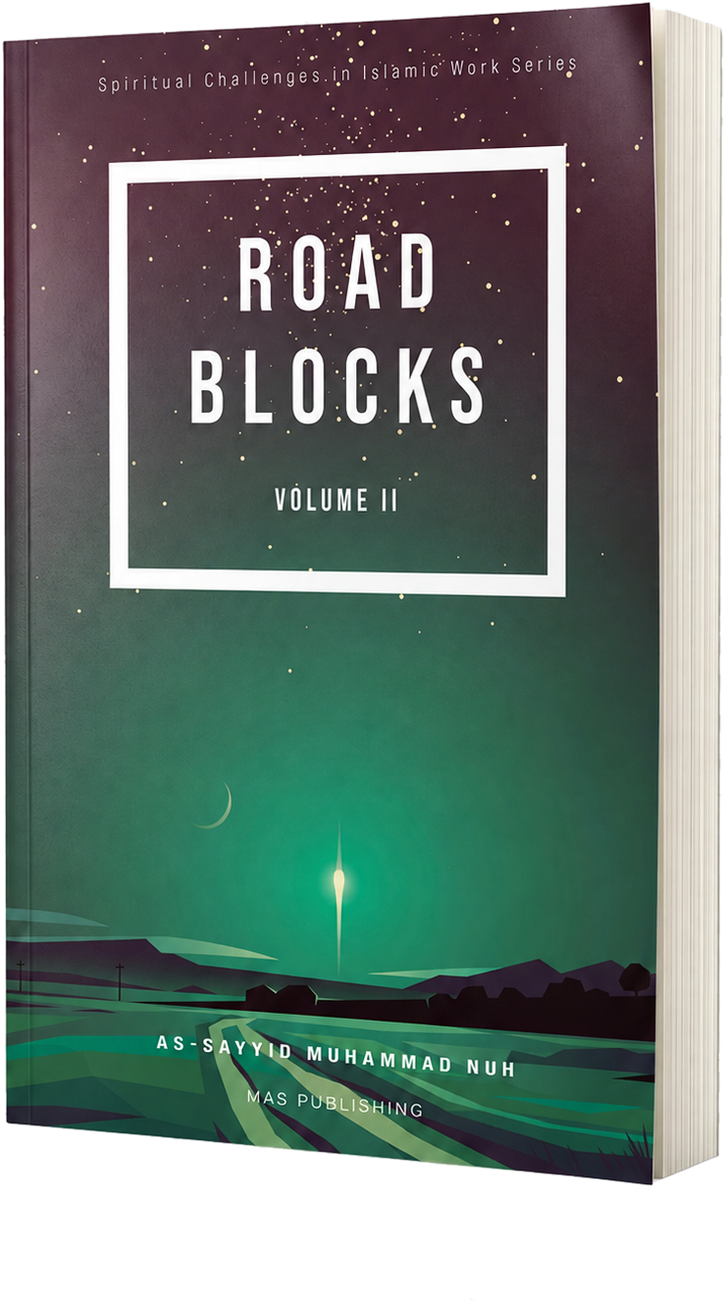
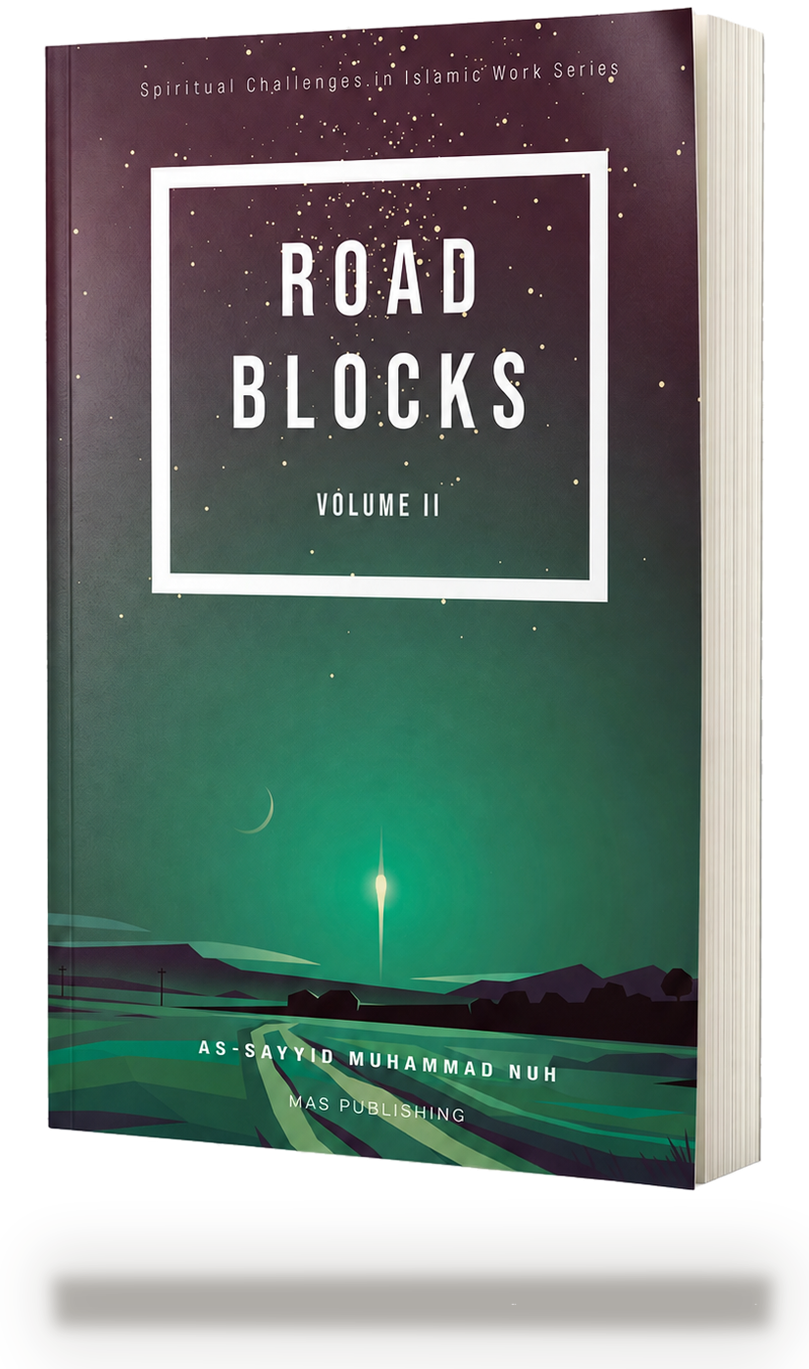
Baked two-layer ground shadows on all renders + Guardians joins the tree

diff --git a/index.html b/index.html
@@ -524,21 +524,21 @@ function toast(msg) {
 
 /* ---------- The Tree ---------- */
 const TREE_BOOKS = [
-  { key: "guardians", zone: "The Canopy", part: "The Shade", title: "Guardians of the Houses of Allah", author: "MAS Publishing", line: "The canopy the community gathers under \u2014 for everyone who loves, serves and sustains the houses of Allah.", cover: "https://cdn.shopify.com/s/files/1/0073/6231/4343/products/frontcover.png" },
-  { key: "tajdid", part: "The Leaves", title: "Tajdid Anthology, Vol. I", author: "Team of Authors", line: "Leaves fall and return \u2014 renewal, season after season. Essays on Islamic work and revival from many pens.", dims: [6, 0.64, 9], pages: 256, imgw: 5.83, render: "tajdid.png", cover: "https://cdn.shopify.com/s/files/1/0760/5724/8026/files/Tajdid-Anthology_cc5fa651-48d8-4d20-8930-95fec0549f51.jpg" },
-  { key: "the muslim speaker", part: "The Fruit", title: "The Muslim Speaker Toolkit", author: "Asad Zaman", line: "What the tree hands to others: Qur'an and Sunnah references on fifty topics, gathered for khateebs and teachers.", dims: [6, 0.5, 9], pages: 198, imgw: 5.30, render: "mst.png", cover: "https://cdn.shopify.com/s/files/1/0760/5724/8026/files/The-Muslim-Speaker-Toolkit-Compiled-References-from-Quran-Sunnah_b2e22daf-b1a5-48d3-88f5-b5e77e04a563.jpg" },
-  { key: "our youth", part: "The Seeds", title: "Our Youth, Our Future", author: "Ahmad H. Sakr", line: "Seeds for the next tree \u2014 a ten-step guide to raising the generation that carries the baton.", dims: [5.74, 0.41, 8.74], pages: 90, imgw: 5.17, render: "ouryouth.png", cover: "https://m.media-amazon.com/images/I/615j8eEbQ+L._SY522_.jpg" },
-  { key: "transformed", zone: "The Branches", part: "The Branches", title: "Transformed by Worship", author: "Salah Soltan", line: "The four great limbs \u2014 how worship was designed to shape soul, character, mind and body.", dims: [5.5, 0.5, 8.5], pages: 197, imgw: 5.46, render: "tbw.png", cover: "https://cdn.shopify.com/s/files/1/0073/6231/4343/products/E94AB6B1-286F-461C-9B5F-D26C077F645A.jpg" },
-  { key: "cultivating", part: "The Branches", title: "Cultivating Character", author: "Younoos Latheef", line: "The shape the branching takes: twelve character traits through an Islamic lens, for youth and their mentors.", dims: [6, 0.59, 9], pages: 261, imgw: 5.53, render: "cultivating.png", cover: "https://cdn.shopify.com/s/files/1/0760/5724/8026/files/cultivating-character-front-cover_05b8174a-7f7c-417c-b816-288758db43aa.png" },
-  { key: "roadblocks:", zone: "The Bark", part: "The Bark", title: "Roadblocks", author: "As-Sayyid Muhammad Nuh", line: "The tree's protection \u2014 the spiritual diseases that rot Islamic work from within, named and treated.", dims: [6, 0.48, 9], pages: 192, imgw: 5.51, render: "rb1.png", cover: "https://cdn.shopify.com/s/files/1/0073/6231/4343/files/RoadLocks.jpg" },
-  { key: "roadblocks volume 2", part: "The Bark", title: "Roadblocks, Volume II", author: "As-Sayyid Muhammad Nuh", line: "The second layer of defense: six more roadblocks, with commentary for the age of feeds and followers.", dims: [6, 0.43, 9], pages: 169, imgw: 5.02, render: "rb2.png", cover: "https://cdn.shopify.com/s/files/1/0760/5724/8026/files/Road-Blocks-Volume-2_15d53c98-8680-4a4b-9071-00e2acd79e7c.jpg" },
-  { key: "rising soul", zone: "The Trunk", part: "The Trunk", title: "Rising Soul", author: "Muhammad Mansur", line: "The self, rising ring by ring \u2014 a practical, step-by-step guide to tarbiyat an-nafs.", dims: [5.5, 0.6, 8.5], pages: 240, imgw: 6.24, render: "risingsoul.png", cover: "https://cdn.shopify.com/s/files/1/0073/6231/4343/products/rising_soul_front_cover.png" },
-  { key: "tarbiya handbook", part: "The Trunk", title: "Tarbiya Handbook", author: "MAS Publishing", line: "The pattern of growth \u2014 the companion handbook to the tarbiya process itself.", dims: [5.5, 0.5, 8.5], est: true, imgw: 5.26, render: "https://cdn.shopify.com/s/files/1/0760/5724/8026/files/mas-tarbiya3d.png?v=1786681497", cover: "https://cdn.shopify.com/s/files/1/0073/6231/4343/products/Screen_Shot_2020-01-25_at_1.17.26_PM.png" },
-  { key: "mas revival", part: "The Trunk", title: "MAS Revival", author: "MAS Publishing", line: "The grain of the wood: the idea, method and spirit running through the whole of the work.", dims: [5.5, 0.46, 8.5], pages: 182, imgw: 5.22, render: "revival.png", cover: "https://cdn.shopify.com/s/files/1/0760/5724/8026/files/Revival-1_bcc96c73-9f2d-4227-b87b-7a7a3403fe67.png" },
-  { key: "sincerity", zone: "The Heartwood", part: "The Heartwood", title: "Sincerity", author: "Yusuf al-Qaradawi", line: "The hidden center that decides whether the whole tree is sound \u2014 keeping the heart's intention pure.", dims: [5.5, 0.16, 8.5], pages: 61, imgw: 5.02, render: "sincerity.png", cover: "https://cdn.shopify.com/s/files/1/0073/6231/4343/products/sincerity_front_cover.png" },
-  { key: "faith first", zone: "The Roots", part: "The Roots", title: "Faith First", author: "Magdy al-Hilali", line: "The taproot. Begin with iman, and everything else follows.", dims: [7.5, 0.92, 9.25], pages: 408, imgw: 7.0, render: "ff-ali.png", cover: "https://cdn.shopify.com/s/files/1/0760/5724/8026/products/51bvjyDFT5S.jpg?width=810" },
-  { key: "how to love", part: "The Roots", title: "How to Love the Prophet \ufdfa", author: "Ali Badahdah", line: "The root wrapped around the Sunnah \u2014 kindling love for the one we follow \ufdfa.", dims: [6, 0.2, 9], pages: 79, imgw: 4.91, render: "htlp.png", cover: "https://cdn.shopify.com/s/files/1/0073/6231/4343/products/14A7B9D4-28BE-46E9-8EC6-4A7CC305D94A.png" },
-  { key: "al-ma", part: "The Roots", title: "Al-Ma'thurat", author: "Hasan al-Banna", line: "What the roots drink daily \u2014 morning and evening remembrance drawn from Qur'an and Sunnah.", dims: [4.5, 0.3, 7], pages: 40, est: true, imgw: 3.52, render: "mathurat2.png", cover: "https://cdn.shopify.com/s/files/1/0073/6231/4343/files/D14CCE8C-A13A-4EFE-83ED-FE6D498CF27F.jpg" }
+  { key: "guardians", zone: "The Canopy", part: "The Shade", title: "Guardians of the Houses of Allah", author: "MAS Publishing", line: "The canopy the community gathers under \u2014 for everyone who loves, serves and sustains the houses of Allah.", dims: [6, 0.5, 9], est: true, imgw: 6.47, render: "https://cdn.shopify.com/s/files/1/0760/5724/8026/files/mas-guardians3d.png?v=1786684290", cover: "https://cdn.shopify.com/s/files/1/0073/6231/4343/products/frontcover.png" },
+  { key: "tajdid", part: "The Leaves", title: "Tajdid Anthology, Vol. I", author: "Team of Authors", line: "Leaves fall and return \u2014 renewal, season after season. Essays on Islamic work and revival from many pens.", dims: [6, 0.64, 9], pages: 256, imgw: 6.53, render: "tajdid.png?v=s1", cover: "https://cdn.shopify.com/s/files/1/0760/5724/8026/files/Tajdid-Anthology_cc5fa651-48d8-4d20-8930-95fec0549f51.jpg" },
+  { key: "the muslim speaker", part: "The Fruit", title: "The Muslim Speaker Toolkit", author: "Asad Zaman", line: "What the tree hands to others: Qur'an and Sunnah references on fifty topics, gathered for khateebs and teachers.", dims: [6, 0.5, 9], pages: 198, imgw: 5.94, render: "mst.png?v=s1", cover: "https://cdn.shopify.com/s/files/1/0760/5724/8026/files/The-Muslim-Speaker-Toolkit-Compiled-References-from-Quran-Sunnah_b2e22daf-b1a5-48d3-88f5-b5e77e04a563.jpg" },
+  { key: "our youth", part: "The Seeds", title: "Our Youth, Our Future", author: "Ahmad H. Sakr", line: "Seeds for the next tree \u2014 a ten-step guide to raising the generation that carries the baton.", dims: [5.74, 0.41, 8.74], pages: 90, imgw: 5.79, render: "ouryouth.png?v=s1", cover: "https://m.media-amazon.com/images/I/615j8eEbQ+L._SY522_.jpg" },
+  { key: "transformed", zone: "The Branches", part: "The Branches", title: "Transformed by Worship", author: "Salah Soltan", line: "The four great limbs \u2014 how worship was designed to shape soul, character, mind and body.", dims: [5.5, 0.5, 8.5], pages: 197, imgw: 6.12, render: "tbw.png?v=s1", cover: "https://cdn.shopify.com/s/files/1/0073/6231/4343/products/E94AB6B1-286F-461C-9B5F-D26C077F645A.jpg" },
+  { key: "cultivating", part: "The Branches", title: "Cultivating Character", author: "Younoos Latheef", line: "The shape the branching takes: twelve character traits through an Islamic lens, for youth and their mentors.", dims: [6, 0.59, 9], pages: 261, imgw: 6.19, render: "cultivating.png?v=s1", cover: "https://cdn.shopify.com/s/files/1/0760/5724/8026/files/cultivating-character-front-cover_05b8174a-7f7c-417c-b816-288758db43aa.png" },
+  { key: "roadblocks:", zone: "The Bark", part: "The Bark", title: "Roadblocks", author: "As-Sayyid Muhammad Nuh", line: "The tree's protection \u2014 the spiritual diseases that rot Islamic work from within, named and treated.", dims: [6, 0.48, 9], pages: 192, imgw: 6.17, render: "rb1.png?v=s1", cover: "https://cdn.shopify.com/s/files/1/0073/6231/4343/files/RoadLocks.jpg" },
+  { key: "roadblocks volume 2", part: "The Bark", title: "Roadblocks, Volume II", author: "As-Sayyid Muhammad Nuh", line: "The second layer of defense: six more roadblocks, with commentary for the age of feeds and followers.", dims: [6, 0.43, 9], pages: 169, imgw: 5.62, render: "rb2.png?v=s1", cover: "https://cdn.shopify.com/s/files/1/0760/5724/8026/files/Road-Blocks-Volume-2_15d53c98-8680-4a4b-9071-00e2acd79e7c.jpg" },
+  { key: "rising soul", zone: "The Trunk", part: "The Trunk", title: "Rising Soul", author: "Muhammad Mansur", line: "The self, rising ring by ring \u2014 a practical, step-by-step guide to tarbiyat an-nafs.", dims: [5.5, 0.6, 8.5], pages: 240, imgw: 6.99, render: "risingsoul.png?v=s1", cover: "https://cdn.shopify.com/s/files/1/0073/6231/4343/products/rising_soul_front_cover.png" },
+  { key: "tarbiya handbook", part: "The Trunk", title: "Tarbiya Handbook", author: "MAS Publishing", line: "The pattern of growth \u2014 the companion handbook to the tarbiya process itself.", dims: [5.5, 0.5, 8.5], est: true, imgw: 5.89, render: "https://cdn.shopify.com/s/files/1/0760/5724/8026/files/mas-tarbiya3d-s.png?v=1786684291", cover: "https://cdn.shopify.com/s/files/1/0073/6231/4343/products/Screen_Shot_2020-01-25_at_1.17.26_PM.png" },
+  { key: "mas revival", part: "The Trunk", title: "MAS Revival", author: "MAS Publishing", line: "The grain of the wood: the idea, method and spirit running through the whole of the work.", dims: [5.5, 0.46, 8.5], pages: 182, imgw: 5.85, render: "revival.png?v=s1", cover: "https://cdn.shopify.com/s/files/1/0760/5724/8026/files/Revival-1_bcc96c73-9f2d-4227-b87b-7a7a3403fe67.png" },
+  { key: "sincerity", zone: "The Heartwood", part: "The Heartwood", title: "Sincerity", author: "Yusuf al-Qaradawi", line: "The hidden center that decides whether the whole tree is sound \u2014 keeping the heart's intention pure.", dims: [5.5, 0.16, 8.5], pages: 61, imgw: 5.62, render: "sincerity.png?v=s1", cover: "https://cdn.shopify.com/s/files/1/0073/6231/4343/products/sincerity_front_cover.png" },
+  { key: "faith first", zone: "The Roots", part: "The Roots", title: "Faith First", author: "Magdy al-Hilali", line: "The taproot. Begin with iman, and everything else follows.", dims: [7.5, 0.92, 9.25], pages: 408, imgw: 7.84, render: "ff-ali.png?v=s1", cover: "https://cdn.shopify.com/s/files/1/0760/5724/8026/products/51bvjyDFT5S.jpg?width=810" },
+  { key: "how to love", part: "The Roots", title: "How to Love the Prophet \ufdfa", author: "Ali Badahdah", line: "The root wrapped around the Sunnah \u2014 kindling love for the one we follow \ufdfa.", dims: [6, 0.2, 9], pages: 79, imgw: 5.50, render: "htlp.png?v=s1", cover: "https://cdn.shopify.com/s/files/1/0073/6231/4343/products/14A7B9D4-28BE-46E9-8EC6-4A7CC305D94A.png" },
+  { key: "al-ma", part: "The Roots", title: "Al-Ma'thurat", author: "Hasan al-Banna", line: "What the roots drink daily \u2014 morning and evening remembrance drawn from Qur'an and Sunnah.", dims: [4.5, 0.3, 7], pages: 40, est: true, imgw: 3.94, render: "mathurat2.png?v=s1", cover: "https://cdn.shopify.com/s/files/1/0073/6231/4343/files/D14CCE8C-A13A-4EFE-83ED-FE6D498CF27F.jpg" }
 ];
 
 function buildTree(products) {
